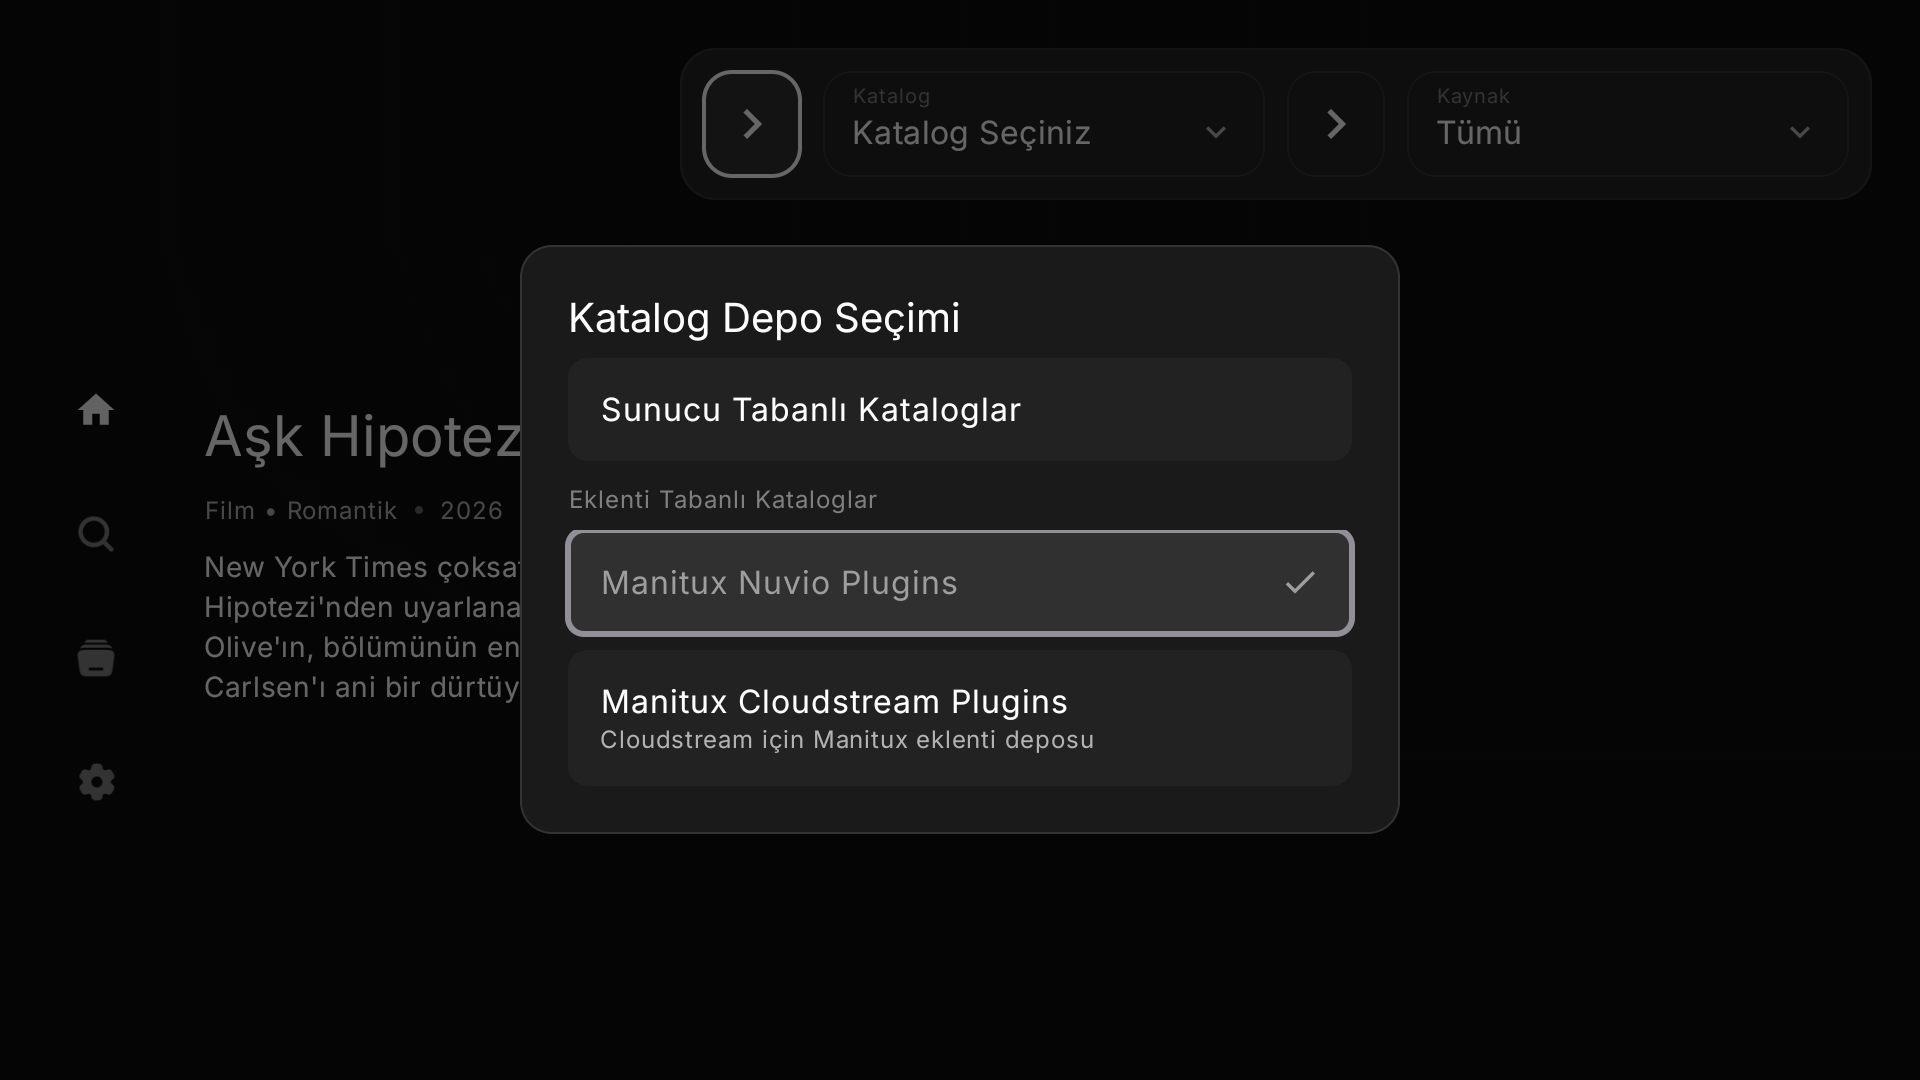
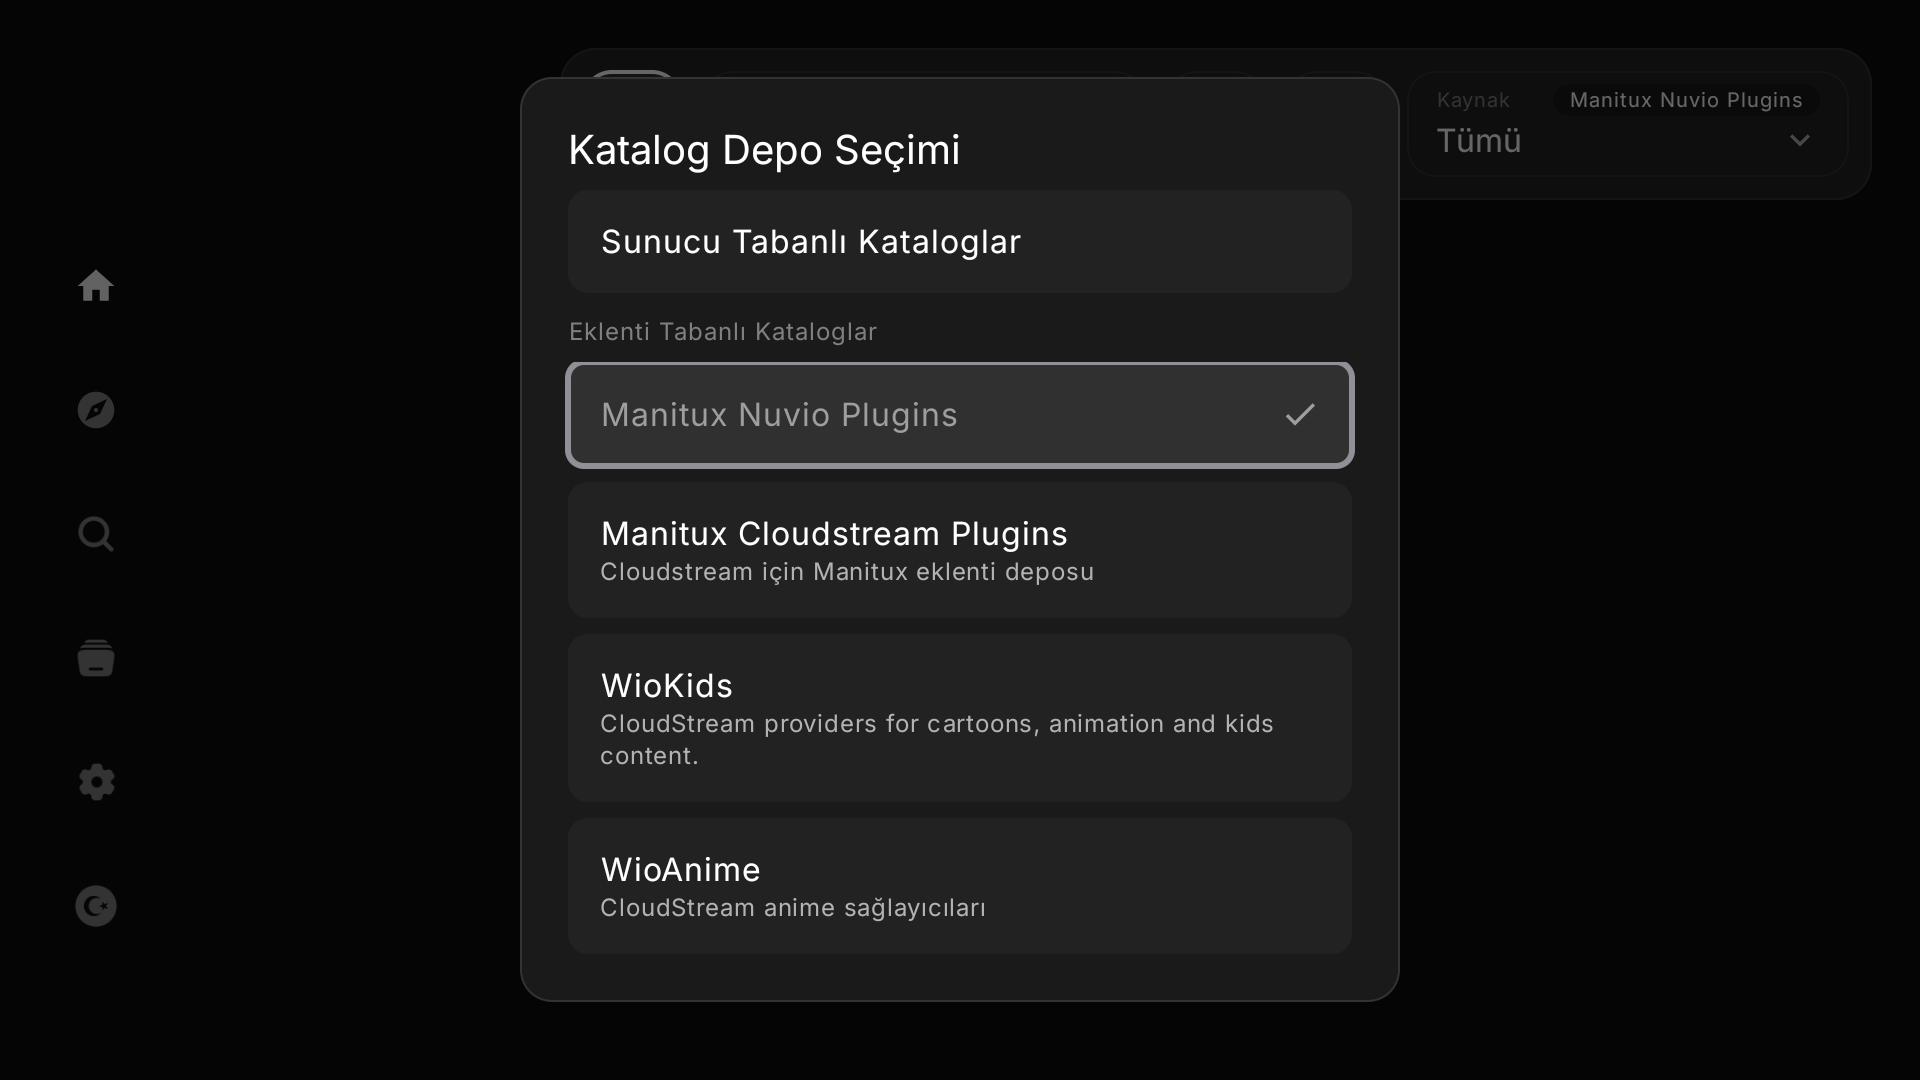
Update repo

diff --git a/android-tv.html b/android-tv.html
@@ -448,6 +448,9 @@
             <figure class="screenshot-slot" aria-label="Katalog ve kaynak menüleri ekran görüntüsü alanı">
               <img src="images/3.png" alt="Katalog ve kaynak menüleri">
             </figure>
+            <figure class="screenshot-slot" aria-label="Katalog ve kaynak menüleri ekran görüntüsü alanı">
+              <img src="images/3_2.png" alt="Katalog ve kaynak menüleri">
+            </figure>
           </article>
           <article class="feature">
             <div><span class="feature-number">04 · Kaynak bağlamı korunur</span>
@@ -492,7 +495,7 @@
           <article class="feature">
             <div><span class="feature-number">08 · Eklenti ayarları</span>
               <h3>Eklenti ayarlarını uygulamada yönetin</h3>
-              <p>Yüklediğiniz eklentilerin ayarlarını uygulama içinden yönetebilirsiniz. Eklentinin güncellenmesini beklemeden kendiniz ayarlayabilirsiniz.</p>
+              <p>Yüklediğiniz eklentilerin ayarlarını uygulama içinden yönetebilirsiniz. Eğer geliştirici bu özelliği eklemişse, örneğin bir eklentinin güncellenmesini beklemeden domain adresini kendiniz ayarlayabilirsiniz.</p>
             </div>
             <figure class="screenshot-slot" aria-label="Eklenti ayarları ekran görüntüsü alanı">
               <img src="images/9.png" alt="Eklenti ayarları">
